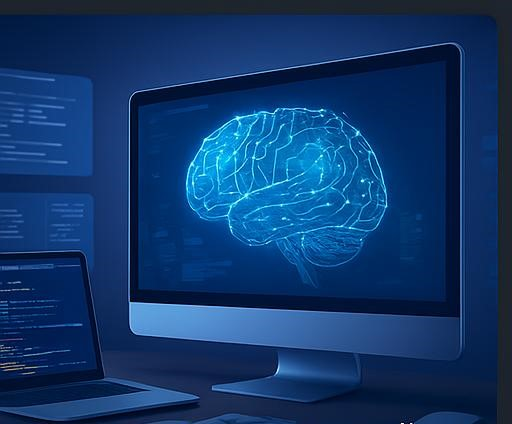
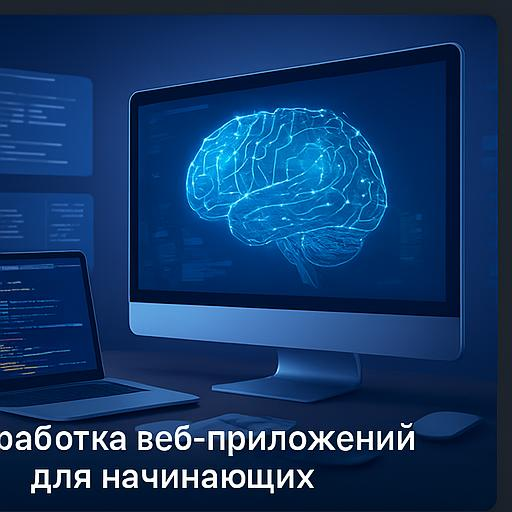
Add files via upload

diff --git a/index.html b/index.html
@@ -1,0 +1,98 @@
+
+<!DOCTYPE html>
+<html lang="ru">
+<head>
+  <meta charset="UTF-8" />
+  <meta name="viewport" content="width=device-width, initial-scale=1.0" />
+  <title>НейроСфера — Школа ИИ</title>
+  <link rel="stylesheet" href="styles.css" />
+</head>
+<body>
+  <header class="header">
+    <div class="container">
+      <img src="images/logo.png" alt="Логотип" class="logo" />
+      <nav>
+        <a href="#courses">Курсы</a>
+        <a href="#teacher">Преподаватель</a>
+        <a href="#reviews">Отзывы</a>
+        <a href="#contact">Контакты</a>
+      </nav>
+    </div>
+  </header>
+
+  <section class="hero">
+    <div class="container">
+      <h1>Школа Искусственного Интеллекта</h1>
+      <p>Город Новый Уренгой</p>
+      <a href="#courses" class="btn">Начать обучение</a>
+    </div>
+  </section>
+
+  <section id="courses" class="courses">
+    <div class="container">
+      <h2>Курсы</h2>
+      <div class="course-grid">
+        <div class="course-card">
+          <img src="images/course1.jpg" alt="Курс 1" />
+          <h3>Нейросети для начинающих</h3>
+          <a href="course1.html" class="btn">Подробнее</a>
+        </div>
+        <div class="course-card">
+          <img src="images/course2.jpg" alt="Курс 2" />
+          <h3>Нейросети в профессиональной деятельности</h3>
+          <a href="course2.html" class="btn">Подробнее</a>
+        </div>
+        <div class="course-card">
+          <img src="images/course3.jpg" alt="Курс 3" />
+          <h3>Разработка веб-приложений</h3>
+          <a href="course3.html" class="btn">Подробнее</a>
+        </div>
+        <div class="course-card">
+          <img src="images/course4.jpg" alt="Курс 4" />
+          <h3>Промпт-инжиниринг</h3>
+          <a href="course4.html" class="btn">Подробнее</a>
+        </div>
+      </div>
+    </div>
+  </section>
+
+  <section id="teacher" class="teacher">
+    <div class="container">
+      <h2>Преподаватель</h2>
+      <div class="teacher-profile">
+        <img src="images/teacher.jpg" alt="И.В. Соков" />
+        <div>
+          <h3>И.В. Соков</h3>
+          <p>Ведущий инженер, эксперт в области ИИ и нейросетей. Автор учебных курсов и проектов по web-разработке.</p>
+        </div>
+      </div>
+    </div>
+  </section>
+
+  <section id="reviews" class="reviews">
+    <div class="container">
+      <h2>Отзывы</h2>
+      <blockquote>«Отличные курсы и подача материала!» — Анастасия</blockquote>
+      <blockquote>«Научился применять ИИ в реальных задачах!» — Дмитрий</blockquote>
+    </div>
+  </section>
+
+  <section id="contact" class="contact">
+    <div class="container">
+      <h2>Связаться с нами</h2>
+      <form>
+        <input type="text" placeholder="Имя" required />
+        <input type="email" placeholder="Email" required />
+        <textarea placeholder="Сообщение" required></textarea>
+        <button type="submit" class="btn">Отправить</button>
+      </form>
+    </div>
+  </section>
+
+  <footer class="footer">
+    <div class="container">
+      <p>&copy; 2025 НейроСфера. Все права защищены.</p>
+    </div>
+  </footer>
+</body>
+</html>

diff --git a/styles.css b/styles.css
@@ -1,0 +1,133 @@
+
+* {
+  box-sizing: border-box;
+}
+body {
+  margin: 0;
+  font-family: 'Segoe UI', sans-serif;
+  background-color: #101820;
+  color: #fff;
+}
+.container {
+  width: 90%;
+  max-width: 1200px;
+  margin: auto;
+}
+.header {
+  background-color: #1a1d29;
+  padding: 20px 0;
+  display: flex;
+  justify-content: space-between;
+  align-items: center;
+}
+.header .logo {
+  height: 50px;
+}
+.header nav a {
+  color: #00b4d8;
+  margin: 0 15px;
+  text-decoration: none;
+  font-weight: bold;
+}
+.hero {
+  padding: 80px 0;
+  display: flex;
+  align-items: center;
+  justify-content: center;
+}
+.hero-grid {
+  display: flex;
+  flex-wrap: wrap;
+  align-items: center;
+  gap: 40px;
+}
+.hero-text {
+  flex: 1 1 400px;
+}
+.hero-text h1 {
+  font-size: 42px;
+  margin-bottom: 10px;
+}
+.hero-text p {
+  color: #ccc;
+  font-size: 18px;
+}
+.hero-image {
+  flex: 1 1 300px;
+}
+.hero-image img {
+  max-width: 100%;
+}
+.btn {
+  display: inline-block;
+  padding: 10px 20px;
+  margin-top: 15px;
+  background-color: #00b4d8;
+  color: white;
+  text-decoration: none;
+  font-weight: bold;
+  border-radius: 6px;
+}
+.about, .teacher, .courses, .reviews, .contact {
+  padding: 60px 0;
+}
+.course-grid {
+  display: grid;
+  grid-template-columns: repeat(auto-fit, minmax(240px, 1fr));
+  gap: 20px;
+  margin-top: 30px;
+}
+.course-card {
+  background: #fff;
+  color: #000;
+  border-radius: 10px;
+  overflow: hidden;
+  text-align: center;
+}
+.course-card img {
+  width: 100%;
+  height: 160px;
+  object-fit: cover;
+}
+.course-card h3 {
+  padding: 15px;
+}
+.teacher-card {
+  display: flex;
+  gap: 20px;
+  align-items: center;
+  background: #fff;
+  color: #000;
+  padding: 20px;
+  border-radius: 10px;
+}
+.teacher-card img {
+  width: 100px;
+  height: 100px;
+  border-radius: 50%;
+  object-fit: cover;
+}
+.reviews blockquote {
+  font-style: italic;
+  margin: 20px 0;
+  padding-left: 15px;
+  border-left: 3px solid #00b4d8;
+}
+form input, form textarea {
+  width: 100%;
+  padding: 10px;
+  margin-bottom: 15px;
+  border-radius: 6px;
+  border: none;
+  background: #1a1d29;
+  color: white;
+}
+form textarea {
+  min-height: 100px;
+}
+.footer {
+  background-color: #1a1d29;
+  text-align: center;
+  padding: 20px 0;
+  color: #aaa;
+}

diff --git a/course1.html b/course1.html
@@ -1,0 +1,10 @@
+<!DOCTYPE html>
+<html lang="ru"><head><meta charset="UTF-8"><title>Курс 1</title><link rel="stylesheet" href="styles.css" /></head>
+<body>
+  <header><a href="index.html" class="btn">← На главную</a></header>
+  <section class="hero">
+    <h1>Курс 1</h1>
+    <p>Описание курса.</p>
+    <a href="#contact" class="btn">Записаться</a>
+  </section>
+</body></html>

diff --git a/course2.html b/course2.html
@@ -1,0 +1,10 @@
+<!DOCTYPE html>
+<html lang="ru"><head><meta charset="UTF-8"><title>Курс 2</title><link rel="stylesheet" href="styles.css" /></head>
+<body>
+  <header><a href="index.html" class="btn">← На главную</a></header>
+  <section class="hero">
+    <h1>Курс 2</h1>
+    <p>Описание курса.</p>
+    <a href="#contact" class="btn">Записаться</a>
+  </section>
+</body></html>

diff --git a/course3.html b/course3.html
@@ -1,0 +1,10 @@
+<!DOCTYPE html>
+<html lang="ru"><head><meta charset="UTF-8"><title>Курс 3</title><link rel="stylesheet" href="styles.css" /></head>
+<body>
+  <header><a href="index.html" class="btn">← На главную</a></header>
+  <section class="hero">
+    <h1>Курс 3</h1>
+    <p>Описание курса.</p>
+    <a href="#contact" class="btn">Записаться</a>
+  </section>
+</body></html>

diff --git a/course4.html b/course4.html
@@ -1,0 +1,10 @@
+<!DOCTYPE html>
+<html lang="ru"><head><meta charset="UTF-8"><title>Курс 4</title><link rel="stylesheet" href="styles.css" /></head>
+<body>
+  <header><a href="index.html" class="btn">← На главную</a></header>
+  <section class="hero">
+    <h1>Курс 4</h1>
+    <p>Описание курса.</p>
+    <a href="#contact" class="btn">Записаться</a>
+  </section>
+</body></html>
